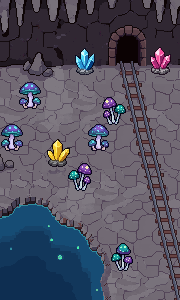
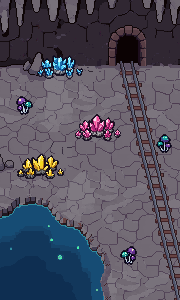
동굴 시연 v4: 경완 '버섯 지금 너무 크고 너무 많고, 보석은 한 덩이씩 있는데 좀 모여있는 느낌으로' · '모인 보석 같은건 지금 여러개 만들었으니까 겹쳐가면서' · '광차는 굳이 레일 기울기에 맞춰서 기울이지 않아도 될듯'
- gem_cluster.py: PixelLab 보석 64칸 중 5장을 크고 작게 겹쳐 무리 (작은 건 nearest 축소 + 테두리 다시)
- 버섯 6무리 → 작은 무리 3개 .62배
- 광차 똑바로

Claude-Session: https://claude.ai/code/session_012Z4iFifcZH9cfXSxsF9mWo

diff --git a/assets_src/maps/demo/cave_tpl.html b/assets_src/maps/demo/cave_tpl.html
@@ -54,7 +54,7 @@ ul.t{margin:6px 0 0;padding-left:18px;font-size:13.5px}ul.t li{margin:2px 0}
   <ul class="t">
     <li>종유석 끝에서 물방울이 맺혔다 한 방울씩 떨어져요. 호수에 떨어지면 물결, 바닥이면 작게 튀어요.</li>
     <li>보석 무리를 누르면 곡괭이로 세 번 쳐서 캐요. 캔 자리는 조금 뒤 다시 자라요 (시연은 12초, 게임은 몇 시간).</li>
-    <li>광차는 레일만 남기고 40초쯤마다 굴에서 나와 레일 기울기에 맞춰 비스듬히 덜컹거리며 내려가요 (가끔은 올라가 굴로).</li>
+    <li>광차는 레일만 남기고 40초쯤마다 굴에서 나와 레일을 따라 덜컹거리며 내려가요 (가끔은 올라가 굴로).</li>
     <li>야광 버섯은 게임 밤 빛 엔진처럼 둘레 어둠을 걷어 내고, 가까이 온 포켓몬을 보랏빛으로 밝혀요. 호수엔 잔물결 반짝임이 지나가요.</li>
   </ul>
 </div>
@@ -98,7 +98,7 @@ function frame(now) { const dt = Math.min(.05, (now - last) / 1000); last = now;
   /* 보석·버섯·광차 빛은 어둠을 덜어냄 (게임 nightHoles) */
   dk.globalCompositeOperation = 'destination-out';
   const hole = (x, y, rx, ry, a) => { const g = dk.createRadialGradient(x, y, 0, x, y, rx); g.addColorStop(0, `rgba(0,0,0,${a})`); g.addColorStop(1, 'rgba(0,0,0,0)'); dk.save(); dk.translate(x, y); dk.scale(1, ry / rx); dk.translate(-x, -y); dk.fillStyle = g; dk.beginPath(); dk.arc(x, y, rx, 0, 7); dk.fill(); dk.restore(); };
-  if (LIT) { for (const g of gems) if (!g.gone) hole(g.x, g.y - 4, 22, 16, .6 * g.grow);
+  if (LIT) { for (const g of gems) if (!g.gone) hole(g.x, g.y - 6, g.r * 1.7, 18, .6 * g.grow);
     for (const m of CFG.shrooms) hole(m[0], m[1] + 3, 24, 13, .62 + .18 * Math.sin(tt * 1.7 + m[0])); }
   dk.globalCompositeOperation = 'source-over';
   /* 버섯 빛 */
@@ -134,7 +134,7 @@ function frame(now) { const dt = Math.min(.05, (now - last) / 1000); last = now;
     const cw = CART.width, ch = CART.height, k = CFG.rail.k, jolt = (Math.floor(y / 4) % 2) ? 0 : -.5;
     fx.save(); fx.globalAlpha = inT; fx.fillStyle = 'rgba(10,6,16,.38)'; fx.beginPath(); fx.ellipse(x * S, (y + 1) * S, 10 * S, 2.6 * S, 0, 0, 7); fx.fill();
     if (y < CFG.rail.y0 + 26) { fx.beginPath(); fx.rect(0, (CFG.rail.y0 - 30) * S, W * S, H * S); fx.clip(); }
-    fx.setTransform(S, 0, k * S, S, (x - cw / 2 - k * ch) * S, (y - ch + 1 + jolt + bob * .5) * S); fx.drawImage(CART, 0, 0); fx.restore();
+    /* 경완 '광차는 굳이 레일 기울기에 맞춰서 기울이지 않아도 될듯' → 똑바로 */ fx.setTransform(S, 0, 0, S, Math.round(x - cw / 2) * S, Math.round(y - ch + 1 + jolt + bob * .5) * S); fx.drawImage(CART, 0, 0); fx.restore();
     if (R() < dt * 6) bits.push({ x: x + (R() < .5 ? -6 : 6), y: y + 1, vx: (R() - .5) * 30, vy: -20 - R() * 20, t: .1, spark: 1 }); } }
   /* 박쥐 (천장 그림자) */
   if (R() < dt * .05) newBat();

diff --git a/assets_src/maps/cave/cave_v3b.py b/assets_src/maps/cave/cave_v3b.py
@@ -1,6 +1,7 @@
 # 동굴 v3 소품: PixelLab Pro 보석·야광 버섯(pixellab/props, 맥 20efef5f)을 바탕에 찍음 (경완 '보석하고 버섯 퀄리티 좀 스칼렛 수준으로')
 # 출력: cave3_m.png(버섯까지 = 보석 캔 뒤 바탕) · cave3.png(보석까지) · cave3.json(보석·버섯 빛 자리)
 import json
+from gem_cluster import shrink, cluster
 from PIL import Image, ImageOps
 P='pixellab/props/'
 def spr(n,flip=False):
@@ -10,15 +11,17 @@ base=Image.open('cave3_base.png').convert('RGBA')
 def stamp(img,im,x,y):  # 아래 가운데 = (x,y)
   img.alpha_composite(im,(x-im.width//2,y-im.height+1))
 # 야광 버섯 무리 (자리 = 밑동 가운데)
-SH=[('mush_big_1',30,108,0),('mush_small_1',114,124,0),('mush_big_2',98,150,1),('mush_small_2',122,270,1),('mush_small_1',80,190,1),('mush_big_1',12,150,1)]
+# 경완 '버섯 지금 너무 크고 너무 많고' → 작은 무리 3개, .62배
+SH=[('mush_small_1',24,114,0),('mush_small_2',164,152,1),('mush_small_1',128,264,1)]
 lights=[]
 for n,x,y,f in SH:
-  im=spr(n,f); stamp(base,im,x,y); lights.append([x,y-im.height*2//3])
+  im=shrink(spr(n,f),.62); stamp(base,im,x,y); lights.append([x,y-im.height*2//3])
 base.save('cave3_m.png')
-GEMS=[('gem_water_1',85,74,'90,200,255','물의 돌'),('gem_moon_1',160,74,'255,110,210','달의 돌'),('gem_thunder_2',58,166,'255,214,70','천둥의 돌')]
+# 경완 '보석은 한 덩이씩 있는데 좀 모여있는 느낌으로' → gem_cluster.py 로 여러 장 겹침
+GEMS=[('gem_water',60,78,'90,200,255','물의 돌'),('gem_moon',98,140,'255,110,210','달의 돌'),('gem_thunder',40,178,'255,214,70','천둥의 돌')]
 full=base.copy(); gems=[]
 for n,x,y,c,name in GEMS:
-  im=spr(n); stamp(full,im,x,y)
+  im=cluster(n); stamp(full,im,x,y)
   gems.append(dict(x=x,y=y,r=im.width//2+2,h=im.height+1,c=c,name=name,sx=0,sy=0))
 full.save('cave3.png')
 json.dump(dict(gems=gems,shrooms=lights),open('cave3.json','w'),ensure_ascii=False)

diff --git a/assets_src/maps/cave/gem_cluster.py b/assets_src/maps/cave/gem_cluster.py
@@ -1,0 +1,31 @@
+# 보석 무리 = PixelLab 보석 여러 장 겹쳐 놓기 (경완 '모인 보석 같은건 지금 여러개 만들었으니까 겹쳐가면서 만들면')
+# 작은 결정은 nearest 로 줄이고 바깥 테두리 #1c1426 한 줄 다시
+from PIL import Image, ImageOps
+G='pixellab/props/raw/grid_'
+OUT=(0x1c,0x14,0x26,255)
+def cell(kind,i):
+  im=Image.open(G+kind+'.png').convert('RGBA').crop((i%8*32,i//8*32,i%8*32+32,i//8*32+32))
+  a=im.split()[3].point(lambda v:255 if v>100 else 0); im.putalpha(a); return im.crop(a.getbbox())
+def shrink(im,f):
+  w,h=max(1,round(im.width*f)),max(1,round(im.height*f))
+  s=im.resize((w,h),Image.NEAREST); s.putalpha(s.split()[3].point(lambda v:255 if v>100 else 0))
+  o=Image.new('RGBA',(w+2,h+2)); o.alpha_composite(s,(1,1)); p=o.load(); q=o.copy().load()
+  for y in range(h+2):
+    for x in range(w+2):
+      if q[x,y][3]==0 and any(0<=x+dx<w+2 and 0<=y+dy<h+2 and q[x+dx,y+dy][3] and q[x+dx,y+dy][:3]!=OUT[:3] for dx,dy in ((1,0),(-1,0),(0,1),(0,-1))): p[x,y]=OUT
+  return o.crop(o.getbbox())
+# (칸 번호, 크기, 좌우뒤집기, dx, 바닥 dy) — 바닥 y 가 작을수록 뒤라 먼저 그림
+LAY=[(0,.6,1,-15,-4),(1,.68,0,14,-5),(2,1,0,0,0),(3,.5,1,-12,4),(4,.45,0,13,4),(3,.32,0,-24,1),(4,.3,1,25,0)]
+PICK={'gem_water':[4,36,9,5,25],'gem_moon':[0,21,1,2,8],'gem_thunder':[19,44,34,50,21]}
+SC=.8
+def cluster(kind):
+  parts=[]
+  for k,f,fl,dx,dy in LAY:
+    f,dx,dy=f*SC,round(dx*SC),round(dy*SC)
+    im=cell(kind,PICK[kind][k]); im=ImageOps.mirror(im) if fl else im; im=shrink(im,f) if f<1 else im
+    parts.append((dy,dx,im))
+  C=Image.new('RGBA',(80,48)); bx,by=40,44
+  for dy,dx,im in sorted(parts,key=lambda t:t[0]): C.alpha_composite(im,(bx+dx-im.width//2,by+dy-im.height+1))
+  return C.crop(C.getbbox())
+if __name__=='__main__':
+  for k in PICK: cluster(k).save('gemc_'+k.split('_')[1]+'.png')
